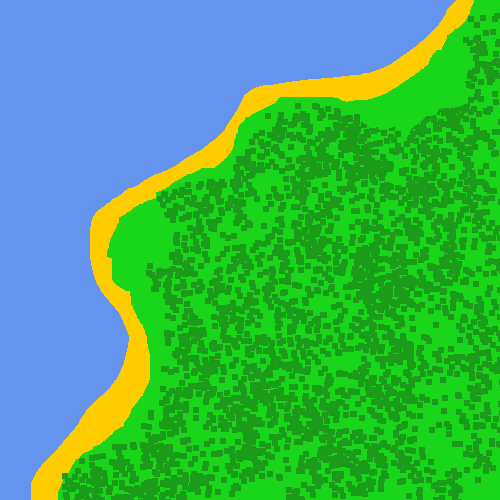
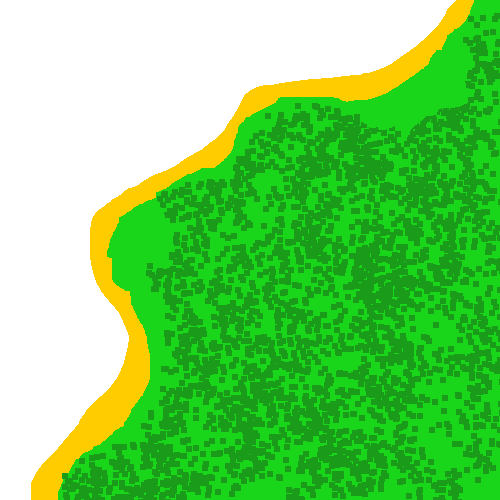
Добавление полноценной текстуры воды

diff --git a/Corsaries_by_VBUteamGKMI/View/Game1.cs b/Corsaries_by_VBUteamGKMI/View/Game1.cs
@@ -28,8 +28,6 @@ namespace Corsaries_by_VBUteamGKMI
         public static List<Cannonball> _my_cannonballs = new List<Cannonball>();
         //снаряды врага
         public static List<Cannonball> _enemy_cannonballs = new List<Cannonball>();
-        System.Drawing.Color _water_colorl;
-        System.Drawing.Color _water_colorl_2;
         public Game_Sate _game_state; //состояние игры
         public static int _game_ground_X_Y = 5000; // размер карты     
         // размеры игровой карты
@@ -192,13 +190,7 @@ namespace Corsaries_by_VBUteamGKMI
             {
                 _nps.Add(new NPS_Ship((Ship_type)new Random().Next(0, 7), Content));
             }
-           
-
-            // получаем цвет воды
-            _water_colorl = GetColorWaterIsland(_islands[0], 1, 1);
-            _water_colorl_2 =  System.Drawing.Color.FromArgb(255,101,148,236);
-          
-
+    
             //  текст координат
             _coordinates = Content.Load<SpriteFont>("testtext");
             _sprite_gameTime = Content.Load<SpriteFont>("testtext");
@@ -274,9 +266,12 @@ namespace Corsaries_by_VBUteamGKMI
         }    
         protected override void Draw(GameTime gameTime)
         {
-            GraphicsDevice.SetRenderTarget(null);
             GraphicsDevice.Clear(Color.CornflowerBlue);
             // обязательный метод начала отрисовки в который передают камеру
+            _spriteBatch.Begin(SpriteSortMode.Deferred,
+                        null, SamplerState.LinearWrap,null,null,null, _camera.get_transformation(GraphicsDevice));
+            _spriteBatch.Draw(Content.Load<Texture2D>("water"), new Vector2(0,0), new Rectangle(0, 0, _game_ground_X_Y,_game_ground_X_Y),Color.White, 0, Vector2.Zero, Vector2.One, SpriteEffects.None, 0);
+            _spriteBatch.End();
             _spriteBatch.Begin(SpriteSortMode.BackToFront,
                         BlendState.AlphaBlend, SamplerState.PointClamp, null, null, null,
                         _camera.get_transformation(GraphicsDevice));
@@ -519,9 +514,7 @@ namespace Corsaries_by_VBUteamGKMI
                         try
                         {
                             System.Drawing.Color color = GetColorWaterIsland(item, x, y);
-                            if (_water_colorl.ToArgb() != color.ToArgb()
-                           && _water_colorl_2.ToArgb() != color.ToArgb())
-                             
+                            if (color != System.Drawing.Color.FromArgb(0,0,0))
                             {
                                 
                                 collide = true;
@@ -534,7 +527,7 @@ namespace Corsaries_by_VBUteamGKMI
 
             return collide;
         }
-       // получение цвета пикселей острова для колизии с островами
+        // получение цвета пикселей острова для колизии с островами
         private System.Drawing.Color GetColorWaterIsland(Island island, int x, int y) => island._bitmap.GetPixel(x, y);
         // проверка столкновений с НПС
         protected void Collision_NPS(Ship ship)
